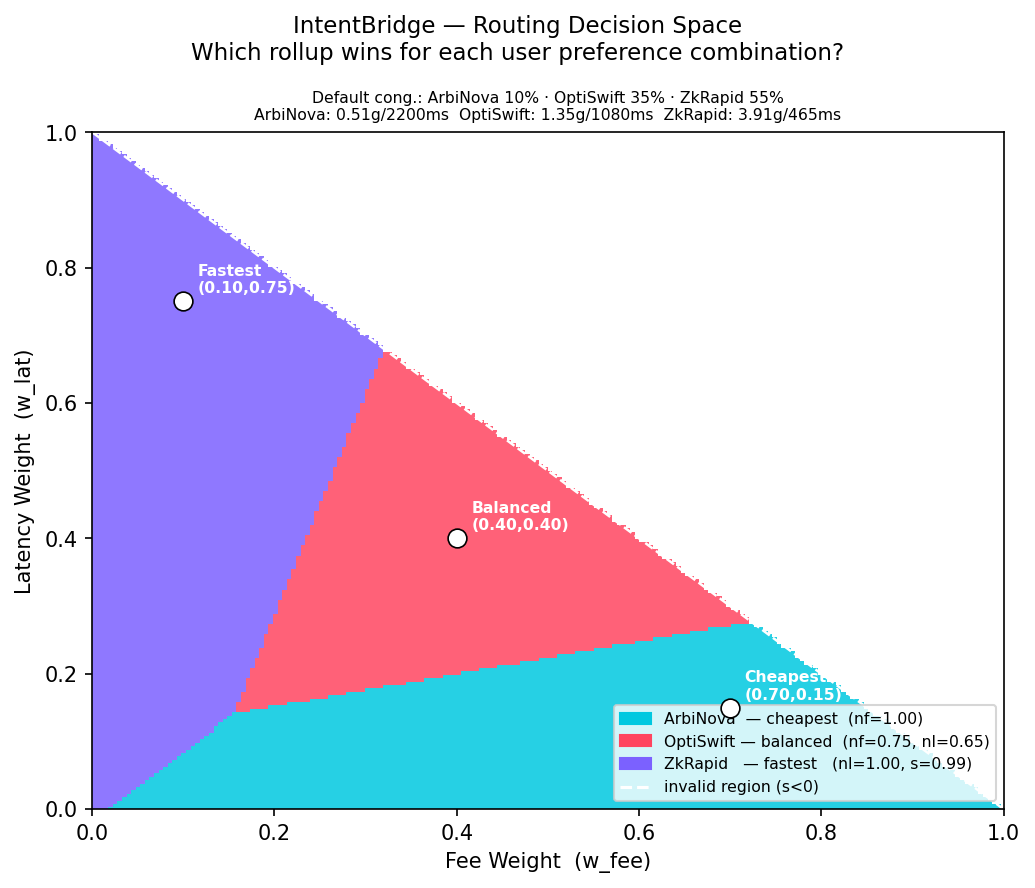
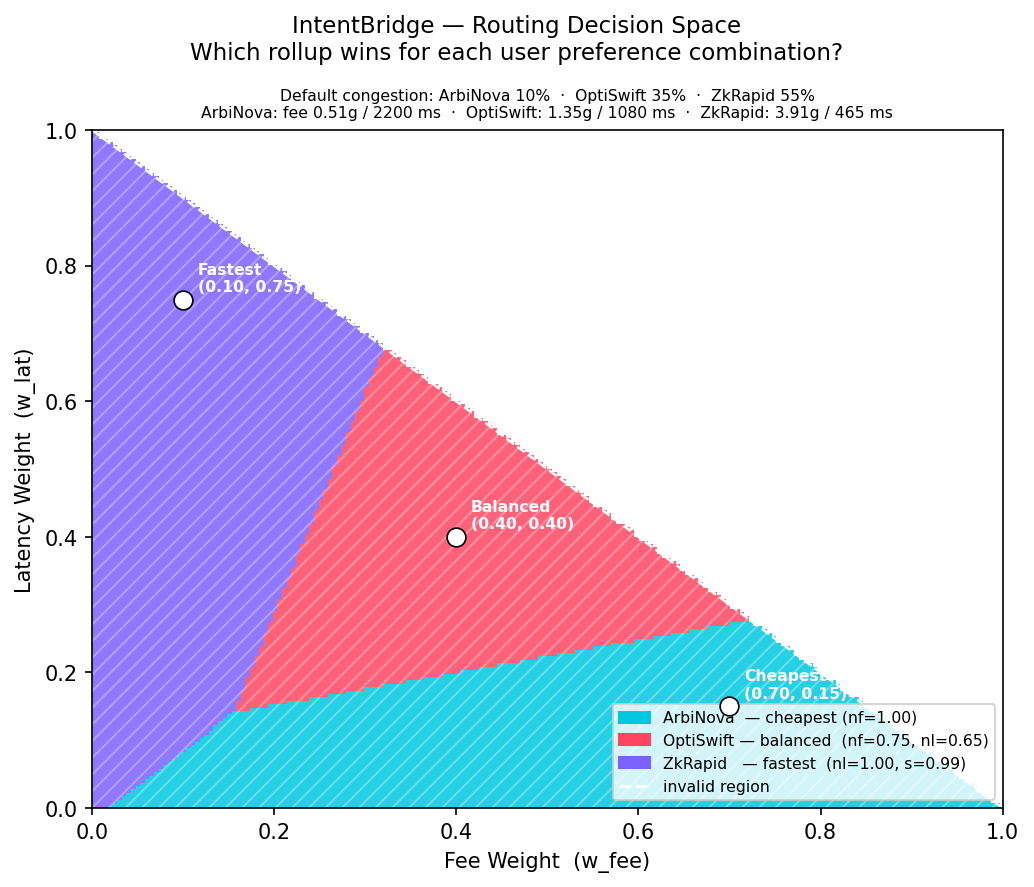
解决pit.show卡住问题

Changed region(s): [[0.0619, 0.0, 0.9594, 1.0], [0.0, 0.3957, 0.0309, 0.6697], [0.1857, 0.0304, 0.2476, 0.0913]]

diff --git a/analysis/benchmark.py b/analysis/benchmark.py
@@ -706,7 +706,7 @@ if __name__ == "__main__":
         out1 = "analysis/benchmark_results.png"
         plt.savefig(out1, dpi=150)
         print(f"\n  Chart saved to {out1}")
-        plt.show()
+        # plt.show()  # omitted — prevents blocking when run non-interactively
 
         # Chart 2: strategy baseline comparison
         fig2, (ax3, ax4) = plt.subplots(1, 2, figsize=(13, 5))
@@ -732,7 +732,7 @@ if __name__ == "__main__":
         out2 = "analysis/baseline_comparison.png"
         fig2.savefig(out2, dpi=150)
         print(f"  Chart saved to {out2}")
-        plt.show()
+        # plt.show()  # omitted — prevents blocking when run non-interactively
 
         # Chart 3: intent-type benchmark (balanced preference)
         bal_it      = [r for r in intent_results if r.preference == "balanced"]
@@ -778,7 +778,7 @@ if __name__ == "__main__":
         out3 = "analysis/intent_type_benchmark.png"
         fig3.savefig(out3, dpi=150)
         print(f"  Chart saved to {out3}")
-        plt.show()
+        # plt.show()  # omitted — prevents blocking when run non-interactively
 
         # Chart 4: routing decision in preference-weight space
         # ──────────────────────────────────────────────────────────────────────
@@ -871,7 +871,7 @@ if __name__ == "__main__":
         out4 = "analysis/routing_heatmap.png"
         fig4.savefig(out4, dpi=150, bbox_inches="tight")
         print(f"  Chart saved to {out4}")
-        plt.show()
+        # plt.show()  # omitted — prevents blocking when run non-interactively
 
     except ImportError:
         print("\n  (Install matplotlib + numpy to generate charts)")